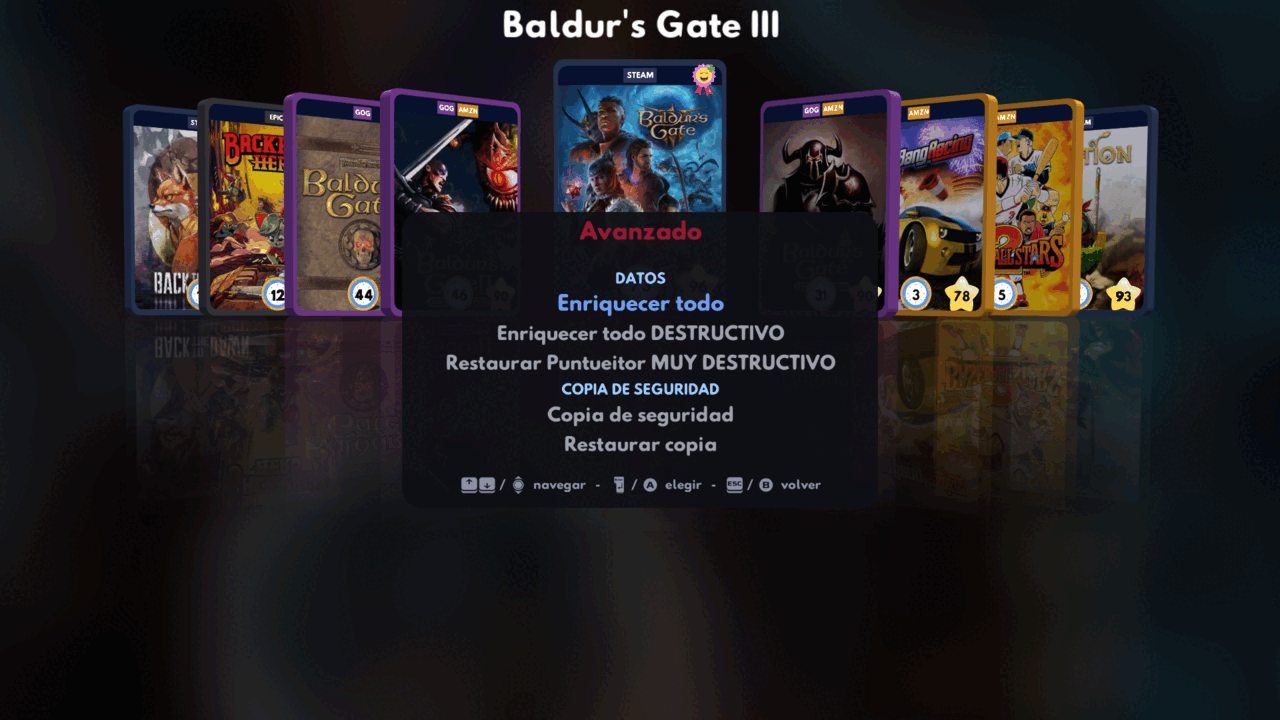
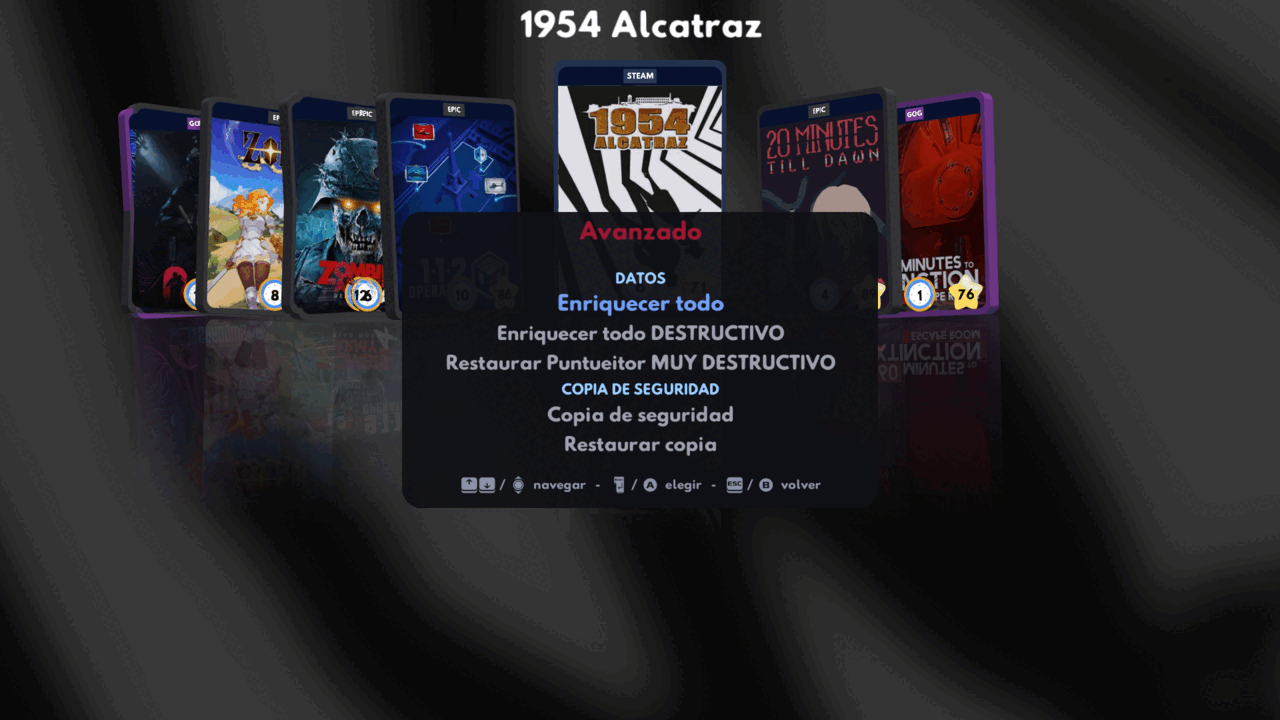
docs: README, CHANGELOG y capturas al día para la 3.0.0
**CHANGELOG.** La entrada de la 3.0.0 se había ido escribiendo por capas y
tenía cosas que ya no eran ciertas:

- Mandaba a "Select → Configuración → CUENTAS", una ruta que dejó de existir
  cuando Cuentas pasó a ser su propio menú.
- Anunciaba en "Añadido" el login de Steam por OpenID, que se quitó dentro de
  la misma versión: nunca ha existido para nadie que instale la 3.0.0, así
  que contarlo solo confundía. Con él se va la entrada de "Cambiado" que
  explicaba su retirada, que solo tenía sentido como historia interna.
- Los arreglos de fallos estaban mezclados en "Cambiado". Ahora tienen su
  sección "Corregido", como la 2.0.0.
- El "~2 s" de recarga era el dato de Epic solo. El defendible es ~4 s: lo
  que tarda Amazon, que es la única que no se puede paralelizar porque
  encadena sus páginas.
- Y se avisa en "Al actualizar" de que la biblioteca de Epic y la lista de
  Desconocidos van a crecer, que es lo que el usuario va a notar primero.

**README.** Decía 2.0.0 en el binario y en el build, 571 tests cuando son
583, y "una sola base de datos SQLite" cuando son dos más una caché. La
sección de configuración seguía mandándolo todo a un único diálogo.

**Capturas.** Regeneradas, y dos nuevas: Cuentas y Tiendas, que son el cambio
de esta versión y no se veían en ninguna parte. Los créditos ya salen con
3.0.0 y con legendary, gogdl y nile.

Se borra `config.png`: retrataba la pantalla de configuración de la TUI tal y
[…]

diff --git a/tools/capturas3d.py b/tools/capturas3d.py
@@ -224,6 +224,20 @@ def main() -> None:
     _disparar(app, destino, "gui3d-regenerar.png")
     app._close_all_menus()
 
+    # Cuentas: credenciales y sesiones de tienda. Se abre por su método de
+    # verdad y no empujando el menú, porque es quien lo rellena con los
+    # valores en edición y el estado de cada sesión.
+    app._open_accounts_menu()
+    _pasar_frames(app, FRAMES_ENTRE_CAPTURAS)
+    _disparar(app, destino, "gui3d-cuentas.png")
+    app._close_all_menus()
+
+    # Tiendas: qué se carga. Es el otro medio de la antigua "Configuración".
+    app._open_settings_menu()
+    _pasar_frames(app, FRAMES_ENTRE_CAPTURAS)
+    _disparar(app, destino, "gui3d-tiendas.png")
+    app._close_all_menus()
+
     app._push_menu(app.credits_menu)
     _pasar_frames(app, FRAMES_ENTRE_CAPTURAS)
     _disparar(app, destino, "gui3d-creditos.png")

diff --git a/CHANGELOG.md b/CHANGELOG.md
@@ -12,14 +12,17 @@ con su carpeta.
 
 ### ⚠ Al actualizar
 
-- **Hay que iniciar sesión** en GOG, Epic y Amazon: Cuentas (`a` en la TUI,
-  Select → Configuración → CUENTAS en el carrusel). Se abre el navegador y se
-  pega de vuelta la dirección; el mismo gesto en las cuatro tiendas.
+- **Hay que iniciar sesión** en GOG, Epic y Amazon: Opciones → **Cuentas**
+  (`a` en la TUI). Se abre el navegador, inicias sesión y pegas de vuelta la
+  dirección. Steam no: sigue con su API key y su Steam ID, como siempre.
 - El ajuste `heroic_path` desaparece. Si sigue en tu `config.json` se ignora
   y se dice en el log; no hace falta tocar nada.
 - Nada de la biblioteca se pierde: tus marcas, notas y desconocidos siguen
   donde estaban. La primera carga tras iniciar sesión vuelve a preguntar a
   cada tienda.
+- **La biblioteca de Epic crecerá**: vuelven los DLC y las aplicaciones (de
+  451 entradas a 495 en una biblioteca real). Los que IGDB no reconozca irán
+  a Desconocidos, así que esa lista también crece.
 
 ### Añadido
 
@@ -33,19 +36,14 @@ con su carpeta.
   cero juegos, se sirven los juegos de la última vez y se explica en el log,
   en vez de dejar la biblioteca vacía sin decir por qué. Solo un refresco con
   respuesta buena la reescribe.
-- **Pantalla de Cuentas** en las dos interfaces: estado de cada tienda,
-  abrir el navegador, pegar y cerrar sesión. Acepta la dirección entera, el
+- **Menú de Cuentas** en las dos interfaces, el primero de Opciones: las
+  credenciales de IGDB y Steam, y el estado de las sesiones de GOG, Epic y
+  Amazon con sus botones de entrar y salir. Acepta la dirección entera, el
   texto que enseña Epic o el código a secas, para no obligar a nadie a buscar
   un parámetro dentro de una URL de cuatrocientos caracteres.
-- **Steam sin teclear el Steam ID**: se entra por OpenID y se pega la
-  dirección de vuelta, como en las demás. La API key sigue siendo manual —
-  Valve no la da de ninguna otra forma.
-- Los tokens se guardan en `~/.cache/puntueitor/`, solo legibles por ti, y se
-  renuevan solos.
-
 - **Pegar en el carrusel 3D**, con `Ctrl+V` o el botón **X** del mando. Sin
-  esto, el login de las tiendas obligaba a teclear a mano una dirección de
-  cuatrocientos caracteres, con un mando y desde el sofá.
+  esto, el login obligaba a teclear a mano esa dirección, con un mando y
+  desde el sofá.
 
   Panda3D no expone el portapapeles, así que se pregunta al sistema en
   orden: `wl-paste`, `xclip`, `xsel` y, si no hay ninguno, **Klipper por
@@ -54,73 +52,66 @@ con su carpeta.
   `tk` del sistema y la segunda, en Linux, se apoya en esas mismas
   herramientas. Donde no hay ninguna vía —el modo juego del Deck— se dice,
   en vez de fallar en silencio.
-
-### Cambiado
-
-- **"Configuración" pasa a llamarse "Tiendas"**: desde que las credenciales
-  se fueron a Cuentas, ahí dentro solo están las casillas de qué tiendas
-  cargar, y el nombre viejo ya no describía lo que hay. De paso se repartieron
-  los avisos que mandaban a "Opciones → Configuración": los de credenciales
-  van a Cuentas y los de tiendas activas, a Tiendas. Varios llevaban desde el
-  cambio anterior mandando al sitio equivocado, y son justo los que se leen
-  cuando algo no funciona.
-- **Menú "Cuentas" propio**, el primero de Opciones, con todo lo de
-  identificarse junto: credenciales de IGDB, credenciales de Steam y sesiones
-  de GOG, Epic y Amazon. "Configuración" se queda con lo que de verdad es
-  configuración: qué tiendas se cargan. Antes estaba repartido entre las dos
-  sin más criterio que el orden en que se fue añadiendo.
-- **Steam ya no tiene "conectar cuenta".** Se configura con su API key y su
-  Steam ID, a mano. El login por OpenID que tenía no ahorraba ningún paso
-  —Steam no da acceso a la biblioteca a terceros, así que la clave hacía
-  falta igual—: solo ahorraba teclear diecisiete cifras, a cambio de un flujo
-  entero y de aparentar que Steam se configura como las demás.
-- El aviso de "Steam no devolvió ningún juego" ya no manda a mirar primero la
-  privacidad del perfil. Con la clave y el ID de la misma cuenta, la
-  documentación de Steamworks dice que la privacidad no se aplica, así que lo
-  probable es otra cosa: que la clave sea de otra cuenta o el ID no sea el
-  que se cree.
-- `core/providers/` es la capa nueva: cada tienda sabe pedirse a sí misma y
-  el pipeline solo recorre proveedores. Antes la obtención de datos vivía
-  dentro de `load_library` y sabía de ficheros y de HTTP a la vez.
-- Un corte de internet renovando una sesión ya no se confunde con una sesión
-  caducada: antes, un rato sin red habría obligado a volver a entrar en las
-  tres tiendas.
-
+- Los tokens se guardan en `~/.cache/puntueitor/`, solo legibles por ti, y se
+  renuevan solos.
 - Los créditos del carrusel nombran a **legendary, gogdl y nile**, que son
   quienes averiguaron y publicaron las APIs de Epic, GOG y Amazon. No usamos
   su código y su licencia no obliga a nada; se les nombra porque sin ellos
   tres de las cuatro tiendas no funcionarían. Sale de ahí *Heroic*, que ya no
   se lee.
+- `tools/entorno-prueba.sh`: arranca la aplicación contra un directorio
+  aparte para poder probar sin tocar tus datos.
 
-- **Los juegos de ejemplo se van al llegar la biblioteca de verdad.** El
-  carrusel enseña seis juegos de mentira cuando no hay nada que enseñar, pero
-  al recargar los reales se añadían ENCIMA y quedaban los seis mezclados
-  hasta reiniciar. Ahora desaparecen en cuanto entra el primero de verdad —en
-  ese momento y no al empezar la recarga, para que una recarga que no traiga
-  nada te deje los ejemplos en lugar de una pantalla vacía.
-- Marcar un juego de ejemplo como terminado, oculto, favorito o pendiente ya
-  no escribe nada. Antes dejaba una fila con un `igdb_id` que no corresponde
-  a ningún juego tuyo en `library.sqlite`, que es la única base de datos que
-  no se puede regenerar.
+### Cambiado
 
-- **Las duraciones de HowLongToBeat ya no se pierden.** Al acertar, el
-  enriquecedor devolvía el dato pero no lo guardaba —solo se persistían los
-  fallos—, así que los mismos juegos se consultaban en cada recarga, con el
-  mismo resultado, y se perdían al cerrar. Igual con las notas de Steam, que
-  además no dejaban rastro en el log. El guardado que había en
-  `refresh_library` no llegaba a tiempo: los enriquecedores corren en un pool
-  aparte y terminan después.
-- **Recargar es mucho más rápido**: de 31,3 s de red a ~2 s en una recarga
-  normal. Medido con una biblioteca de 1.336 juegos en cuatro tiendas.
-  - Epic no vuelve a preguntar por juegos que ya conoce: su título y su
-    enlace no cambian, y ya estaban guardados. De 22,6 s a 1,9 s.
+- **La configuración se parte en dos menús.** Lo que era "Configuración" pasa
+  a ser **Cuentas** (con qué te identificas) y **Tiendas** (cuáles se
+  cargan). Antes estaba todo junto sin más criterio que el orden en que se
+  fue añadiendo, y son dos cosas que se tocan en momentos distintos.
+- **Recargar es mucho más rápido.** Medido sobre una biblioteca real de 1.336
+  juegos en cuatro tiendas: de 31,3 s de red a unos 4 s, que es lo que tarda
+  la más lenta ahora que van en paralelo.
+  - Epic no vuelve a preguntar por juegos que ya conoce —su título y su
+    enlace no cambian, y ya estaban guardados—: de 22,6 s a 1,9 s. La primera
+    vez, sin nada guardado, 11,6 s.
   - Las cuatro tiendas piden a la vez en lugar de una detrás de otra, así que
     el tiempo muerto pasa de ser la suma a ser el máximo.
   - Las páginas de GOG también van a la vez.
 - **Vuelven los DLC y las aplicaciones de Epic**, como en la 2.x: 495
   entradas en lugar de 451. Se descartaban antes de llegar al identificador,
-  así que no aparecían ni en la biblioteca ni en Desconocidos. Lo que IGDB no
-  reconozca irá a Desconocidos, que para eso está.
+  así que no aparecían ni en la biblioteca ni en Desconocidos.
+- `core/providers/` es la capa nueva: cada tienda sabe pedirse a sí misma y
+  el pipeline solo recorre proveedores. Antes la obtención de datos vivía
+  dentro de `load_library` y sabía de ficheros y de HTTP a la vez.
+- El aviso de "Steam no devolvió ningún juego" ya no manda a mirar primero la
+  privacidad del perfil. Con la clave y el ID de la misma cuenta, la
+  documentación de Steamworks dice que la privacidad no se aplica, así que lo
+  probable es otra cosa: que la clave sea de otra cuenta o el ID no sea el
+  que se cree.
+
+### Corregido
+
+- **Las duraciones de HowLongToBeat se perdían.** Al acertar, el enriquecedor
+  devolvía el dato pero no lo guardaba —solo se persistían los fallos—, así
+  que los mismos juegos se consultaban en cada recarga, con el mismo
+  resultado, y se perdían al cerrar. Igual con las notas de Steam, que además
+  no dejaban rastro en el log.
+- **Los juegos de ejemplo no se iban.** El carrusel enseña seis juegos de
+  mentira cuando no hay nada que enseñar, pero al recargar los reales se
+  añadían encima y quedaban los seis mezclados hasta reiniciar. Ahora
+  desaparecen en cuanto entra el primero de verdad —en ese momento y no al
+  empezar la recarga, para que una recarga que no traiga nada te deje los
+  ejemplos en lugar de una pantalla vacía.
+- Marcar un juego de ejemplo como terminado, oculto, favorito o pendiente
+  dejaba una fila con un `igdb_id` que no corresponde a ningún juego tuyo en
+  `library.sqlite`, que es la única base de datos que no se puede regenerar.
+  Ahora no escribe nada y lo dice.
+- Un corte de internet renovando una sesión ya no se confunde con una sesión
+  caducada: antes, un rato sin red habría obligado a volver a entrar en las
+  tres tiendas.
+- Varios avisos mandaban a "Opciones → Configuración" para arreglar
+  credenciales que ya no están ahí. Son justo los que se leen cuando algo no
+  funciona, así que ahora cada uno manda al menú que toca.
 
 ### Eliminado
 
@@ -130,7 +121,7 @@ con su carpeta.
   `loginusers`, `config`, `shortcuts`). Era código muerto —nadie lo
   importaba— y además dependía de un paquete que ni siquiera estaba en
   `requirements.txt`, así que no habría podido ejecutarse.
-- El ajuste `heroic_path` y su campo en las dos pantallas de configuración.
+- El ajuste `heroic_path` y su campo en las dos interfaces.
 
 ---
 

diff --git a/README.md b/README.md
@@ -36,10 +36,6 @@
   <img src="docs/screenshots/scoring.png" alt="Puntuación" width="600">
 </p>
 
-<p align="center">
-  <i>Configuración de tiendas y credenciales</i><br>
-  <img src="docs/screenshots/config.png" alt="Configuración" width="600">
-</p>
 
 ### 🎠 Carrusel 3D
 
@@ -61,6 +57,16 @@
 <p align="center">
   <i>Editor Rápido: marcar estados con el stick derecho, sin abrir menús</i><br>
   <img src="docs/screenshots/gui3d-editor.png" alt="Editor Rápido" width="800">
+</p>
+
+<p align="center">
+  <i>Cuentas: credenciales de IGDB y Steam, y las sesiones de cada tienda</i><br>
+  <img src="docs/screenshots/gui3d-cuentas.png" alt="Cuentas" width="800">
+</p>
+
+<p align="center">
+  <i>Tiendas: cuáles se cargan</i><br>
+  <img src="docs/screenshots/gui3d-tiendas.png" alt="Tiendas" width="800">
 </p>
 
 <p align="center">
@@ -106,7 +112,7 @@
 | **Tiendas a la carta** | Desmarcar una tienda deja de escanearla **y** de enseñar sus juegos |
 | **Copias de seguridad** | Toda tu instalación en un zip, y de vuelta, desde las dos interfaces |
 | **Diagnóstico claro** | El log distingue "sin internet" de "tu clave no vale" y resume cada carga |
-| **Caché unificada** | Una sola base de datos SQLite en `~/.local/share/puntueitor/` |
+| **Datos separados por lo que cuesta perderlos** | Tus marcas en una base, la biblioteca en otra, y lo re-descargable en `~/.cache` |
 | **Binario único** | PyInstaller — sin dependencias del sistema: 25 MB la TUI, 66 MB el carrusel |
 
 ---
@@ -118,8 +124,8 @@
 Descarga la última versión desde [Releases](https://github.com/FranjeGueje/puntueitor/releases):
 
 ```bash
-chmod +x puntueitor-2.0.0-x86_64-linux
-./puntueitor-2.0.0-x86_64-linux
+chmod +x puntueitor-3.0.0-x86_64-linux
+./puntueitor-3.0.0-x86_64-linux
 ```
 
 ### Desde fuente
@@ -173,9 +179,11 @@ mientras.
 
 ## ⚙ Configuración
 
-Al arrancar por primera vez, abre el diálogo de configuración —`c` en la TUI,
-Select → Tiendas en el carrusel— o edita a mano
-`~/.config/puntueitor/config.json`. Las dos interfaces leen y escriben el
+La configuración vive en dos sitios, según lo que sea: **Cuentas** (`a` en la
+TUI, Select → Cuentas en el carrusel) guarda con qué te identificas —claves de
+IGDB y de Steam, sesiones de las tiendas— y **Tiendas** (`c`, Select →
+Tiendas), qué tiendas se cargan. También se puede editar a mano
+`~/.config/puntueitor/config.json`; las dos interfaces leen y escriben el
 mismo fichero:
 
 > Puntueitor sigue la especificación XDG Base Directory. Si vienes de una
@@ -185,7 +193,7 @@ mismo fichero:
 > |---|---|
 > | `~/.config/puntueitor/` | `config.json` (credenciales y tiendas) y `scoring.json` (pesos de los sistemas de puntuación) |
 > | `~/.local/share/puntueitor/` | biblioteca y marcas de usuario (`puntueitor.db`, `library.sqlite`) |
-> | `~/.cache/puntueitor/` | carátulas y datos re-descargables |
+> | `~/.cache/puntueitor/` | carátulas, tokens de sesión y la última biblioteca de cada tienda (`store_libraries.sqlite`) |
 > | `~/.local/state/puntueitor/` | log y estado de cada interfaz (`tui.json`, `gui3d.json`) |
 >
 > La biblioteca ya no vive en `~/.cache`: ahí un limpiador de disco podía
@@ -306,7 +314,7 @@ ningún permiso, así que la clave haría falta igual. Sácala de
 | `E` | `R3` | Entrar y salir del **Editor Rápido** |
 | `Enter` | `A` | Menú del juego: estados, enriquecer, desconocer |
 | `Esc` | `B` | Volver |
-| `Esc` | `Select` | Opciones (configuración, ajustes del carrusel, avanzado, créditos, salir) |
+| `Esc` | `Select` | Opciones (cuentas, tiendas, ajustes del carrusel, avanzado, créditos, salir) |
 | `Tab` | `Start` | Puntueitor: sistemas de puntuación |
 | `X` | `X` | Filtrar y ordenar |
 | `Espacio` | `Y` | Mostrar u ocultar las etiquetas de las cajas |
@@ -424,14 +432,14 @@ source .venv/bin/activate
 python -m pytest tests/
 ```
 
-571 tests (unitarios + integración) que cubren:
+583 tests (unitarios + integración) que cubren:
 - Modelos de dominio (Game, Library, ScoredLibrary)
 - Filtros (7 clases)
 - Scoring (helpers, atómicos, mixto, ponderado, tiempo disponible, género)
 - Selectores, Mappers, Enrichers
 - Resolvers (plantilla común y las 4 tiendas)
-- Proveedores de tienda: paginación, filtrado, caída a la copia guardada
-  cuando no hay red y sesión caducada
+- Proveedores de tienda: paginación, reutilización de lo ya consultado, y
+  caída a la copia guardada cuando no hay red o la sesión ha caducado
 - Sesiones: renovación de tokens y qué se acepta al pegar la vuelta del login
 - Pegar en el carrusel: en qué orden se le pregunta al sistema por el
   portapapeles, y que el botón X acabe pegando de verdad
@@ -482,8 +490,8 @@ al home de verdad.
 Un binario único auto-contenido por interfaz:
 
 ```bash
-./build.sh      # → dist/puntueitor-2.0.0-x86_64-linux    (TUI)
-./build3d.sh    # → dist/puntueitor3d-2.0.0-x86_64-linux  (interfaz 3D)
+./build.sh      # → dist/puntueitor-3.0.0-x86_64-linux    (TUI)
+./build3d.sh    # → dist/puntueitor3d-3.0.0-x86_64-linux  (interfaz 3D)
 ```
 
 El nombre incluye versión, arquitectura y sistema automáticamente; la
